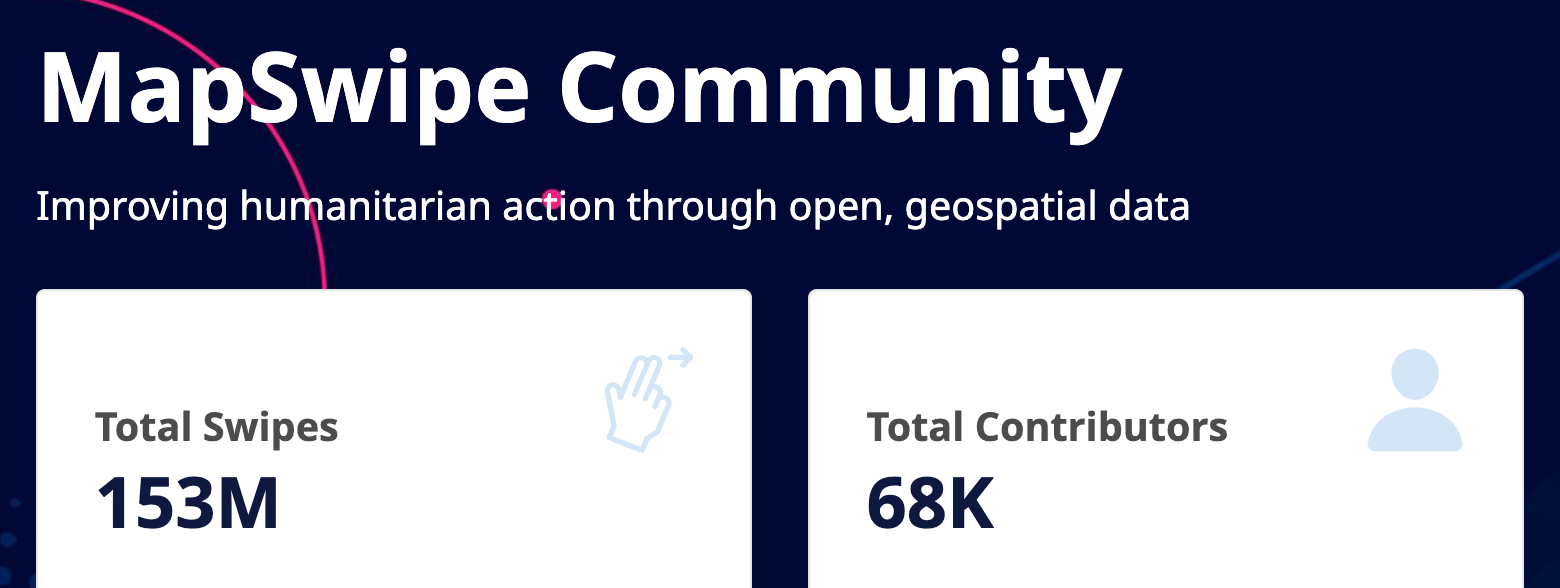
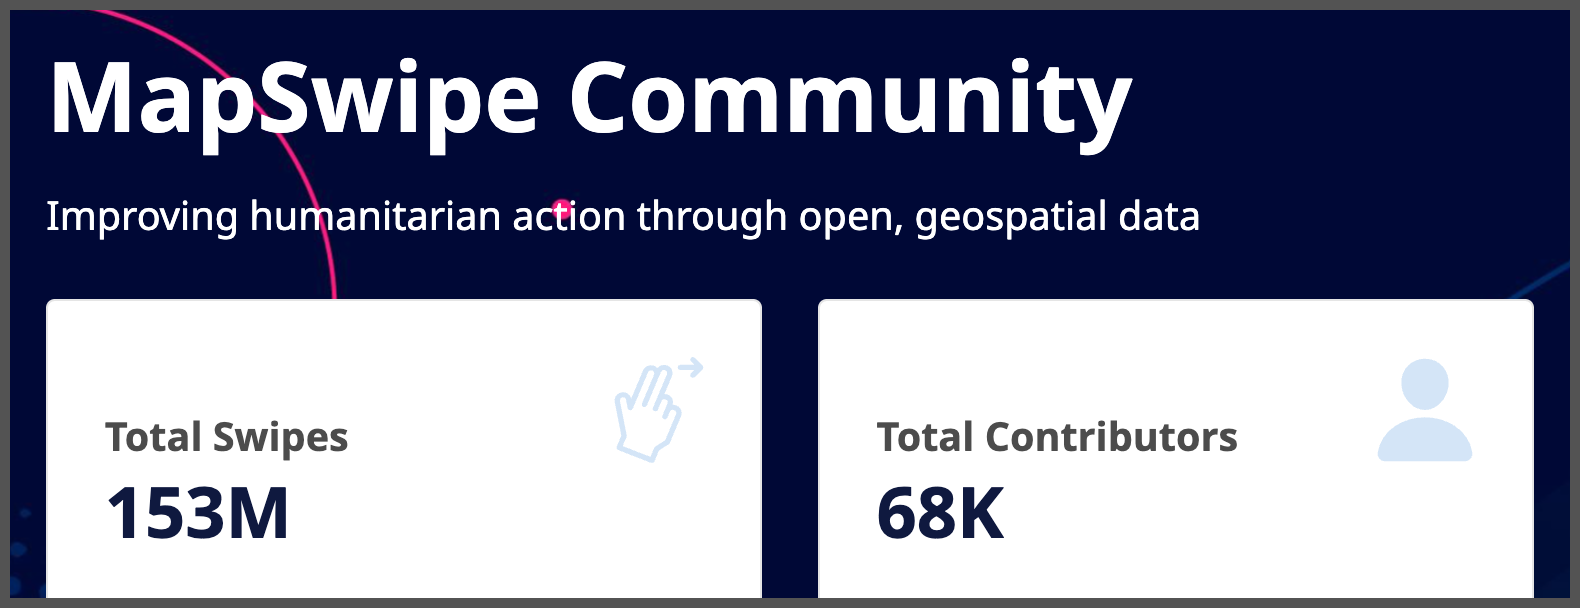
img url fix, add img border, minor wording edits

diff --git a/_posts/2023-01-31-mapswipe-analytics-and-groups.md b/_posts/2023-01-31-mapswipe-analytics-and-groups.md
@@ -33,7 +33,7 @@ To check out the changes, launch MapSwipe and look for the “Profile” tab tha
 
 With the completion of this software project, we can now access details about the history of contributions on MapSwipe. By filtering the community page to 2016 to 2022 we can see the growth of MapSwipe, especially since 2020.
 
-![graph of time spend contributing by users of MapSwipe per year](/img/posts/20230131_mission-heat-map.png)
+![graph of time spend contributing by users of MapSwipe per year](/img/posts/20230131_contributions-graph.png)
 <br><span class="post-caption">After several comparable years for total time spent by users contributing on MapSwipe, there has been an increase, especially in 2022.</span>
 
 While we may be a long way from having MapSwipe missions in every country, there have been missions in a variety of geographies around the world as seen in this heatmap of mission locations.
@@ -41,10 +41,10 @@ While we may be a long way from having MapSwipe missions in every country, there
 ![global heat map of MapSwipe mission locations](/img/posts/20230131_mission-heat-map.png)
 <br><span class="post-caption">The size and intensity of the colors on this map indicate the geographic locations and numbers of MapSwipe missions from 2016-2022.</span>
 
-Please take a look for yourself at [https://community.mapswipe.org/](https://community.mapswipe.org/). You can search by user or group, and every page can be filtered to a particular date range. What stands out to you? What trends do you notice? We hope you are excited as we are by the insights possible!
+Please take a look for yourself at [https://community.mapswipe.org/](https://community.mapswipe.org/). You can search by user or group, and every page can be filtered to a particular date range. What stands out to you? What trends do you notice? We hope you are as excited as we are by the insights possible!
 
 ## Thank you
 
 As this project was larger than the core maintainers were able to complete on their own, we worked with [Togglecorp](https://www.togglecorp.com/) - a software development company based in Nepal with an impressive portfolio including previous work with American Red Cross, the IFRC, and other humanitarian organizations. However, neither this project nor MapSwipe as a whole would be possible without the generous involvement of the community.
 
-On top of the work by the developers at Togglecorp, the core maintainers were still involved in guiding, reviewing code, and otherwise helping guide the project. We have many volunteers helping translate the new text in the app to make it more accessible. Volunteers provide feedback on the design and direction of MapSwipe. Organizations trust MapSwipe to create useful geospatial data. And, as is readily known by checking the community contribution page, there are over 68,000 contributors on the app! A big thank you to everyone involved - past, present, and future.
+On top of the work by the developers at Togglecorp, the core maintainers were still involved in guiding, reviewing code, and otherwise helping guide the project. We have many volunteers helping translate the new text in the app to make it more accessible. Volunteers provide feedback on the design and direction of MapSwipe. Organizations trust MapSwipe to create useful geospatial data. And, as is readily known by checking the community contribution page, there are over 68,000 people that have contributed on the app! A big thank you to everyone involved - past, present, and future.
